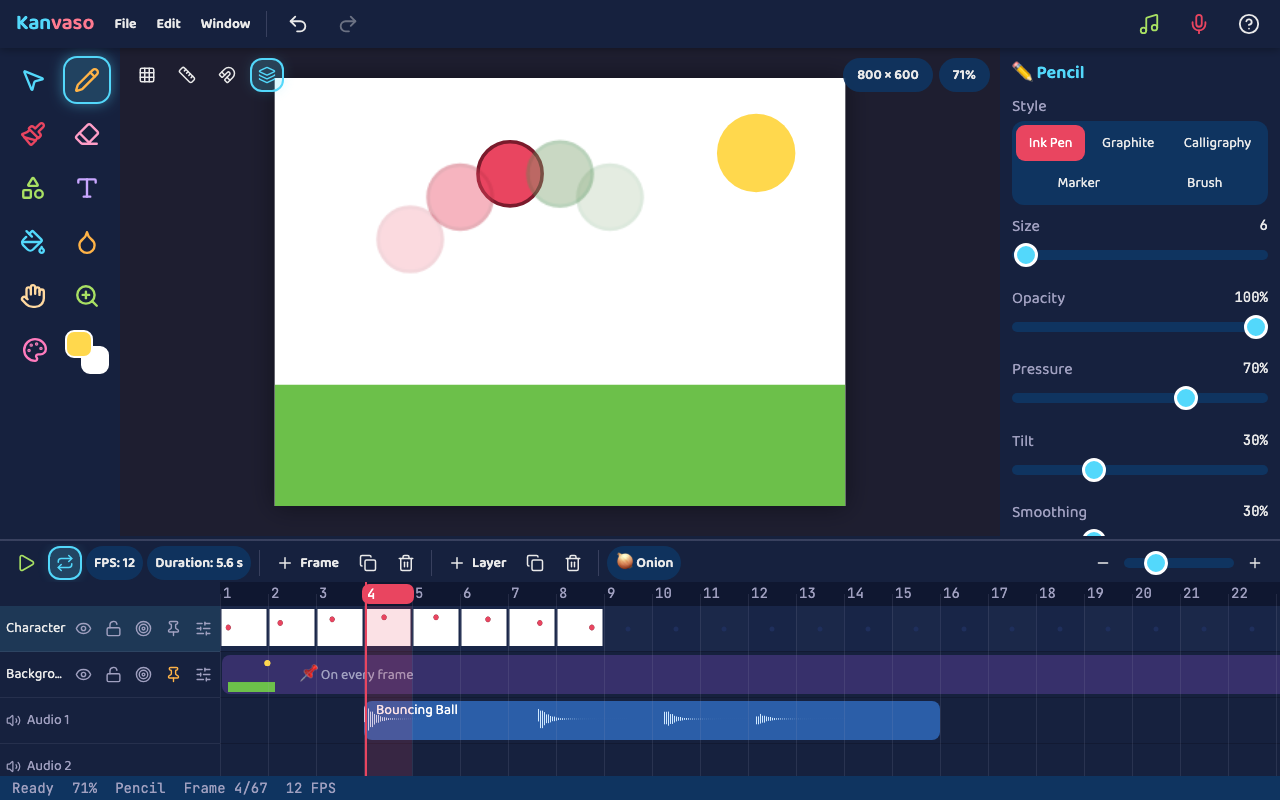
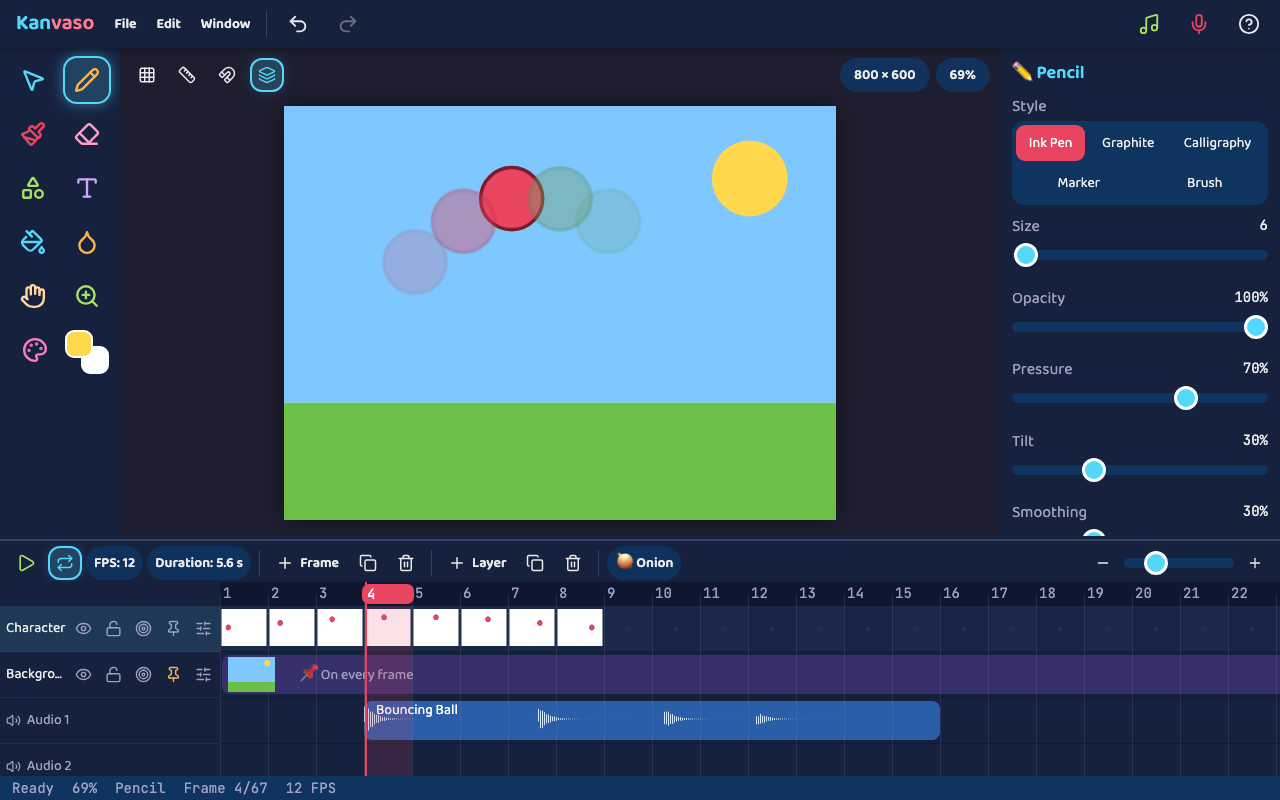
Keep the fitted artboard clear of the floating canvas buttons

Changed region(s): [[0.1875, 0.0625, 0.75, 0.625], [0.2188, 0.625, 0.6562, 0.6562], [0.1562, 0.8125, 0.2188, 0.875]]

diff --git a/src/render/scene.ts b/src/render/scene.ts
@@ -90,9 +90,11 @@ export class Scene {
     this.touched = false;
     const s = getState();
     const { width: vw, height: vh } = this.stage.size();
-    const z = Math.min(1, Math.min((vw - 60) / s.doc.canvas.width, (vh - 60) / s.doc.canvas.height));
+    // Keep the artboard below the floating buttons so they never cover its corners.
+    const top = 58, bottom = 16;
+    const z = Math.min(1, Math.min((vw - 40) / s.doc.canvas.width, (vh - top - bottom) / s.doc.canvas.height));
     const zoom = Math.max(0.1, z);
-    s.set({ zoom, panX: (vw - s.doc.canvas.width * zoom) / 2, panY: (vh - s.doc.canvas.height * zoom) / 2 });
+    s.set({ zoom, panX: (vw - s.doc.canvas.width * zoom) / 2, panY: top + (vh - top - bottom - s.doc.canvas.height * zoom) / 2 });
   }
   toWorld(clientX: number, clientY: number) {
     const r = this.container.getBoundingClientRect();

diff --git a/docs/STATUS.md b/docs/STATUS.md
@@ -33,6 +33,6 @@ These need a real device or a person:
 
 - MP4 sound on Safari older than version 26 is left out, with a notice, because those versions cannot encode audio.
 - Guides can only be cleared all at once, by double-clicking a ruler.
-- A deep cut of the design: no marquee drag-select. Use Shift+click or Select All.
+- There is no drag-a-box selection. Use Shift+click or Select All.
 - The Shape tool has no rotation setting before drawing; rotate the shape after placing it.
 - `npm run lint` is a strict TypeScript check, not ESLint.
